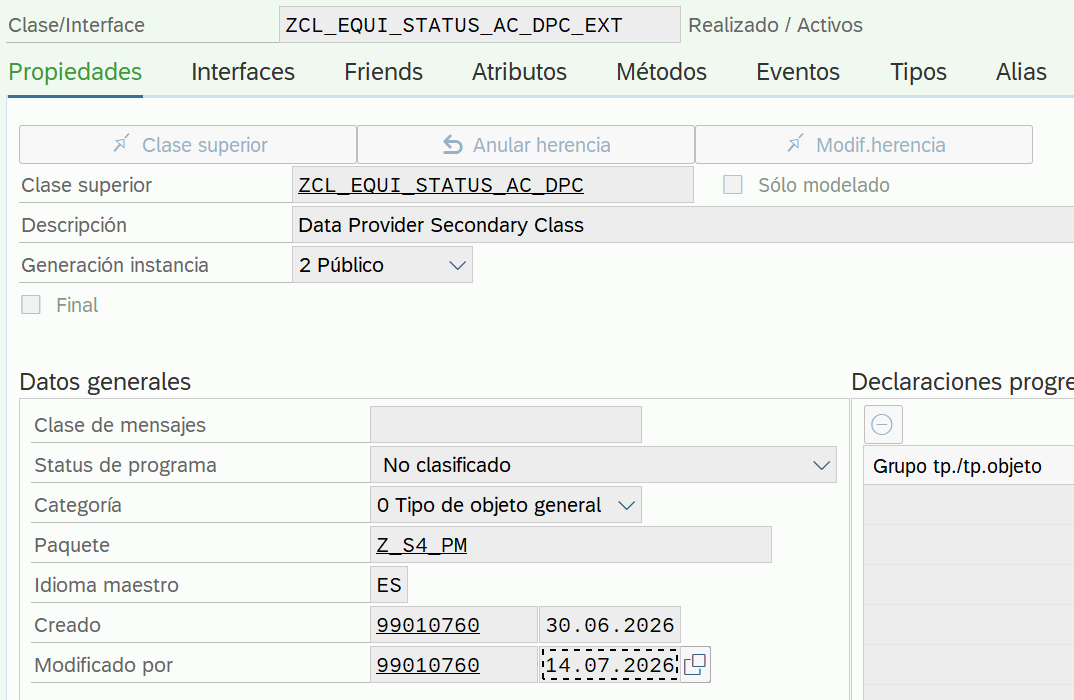
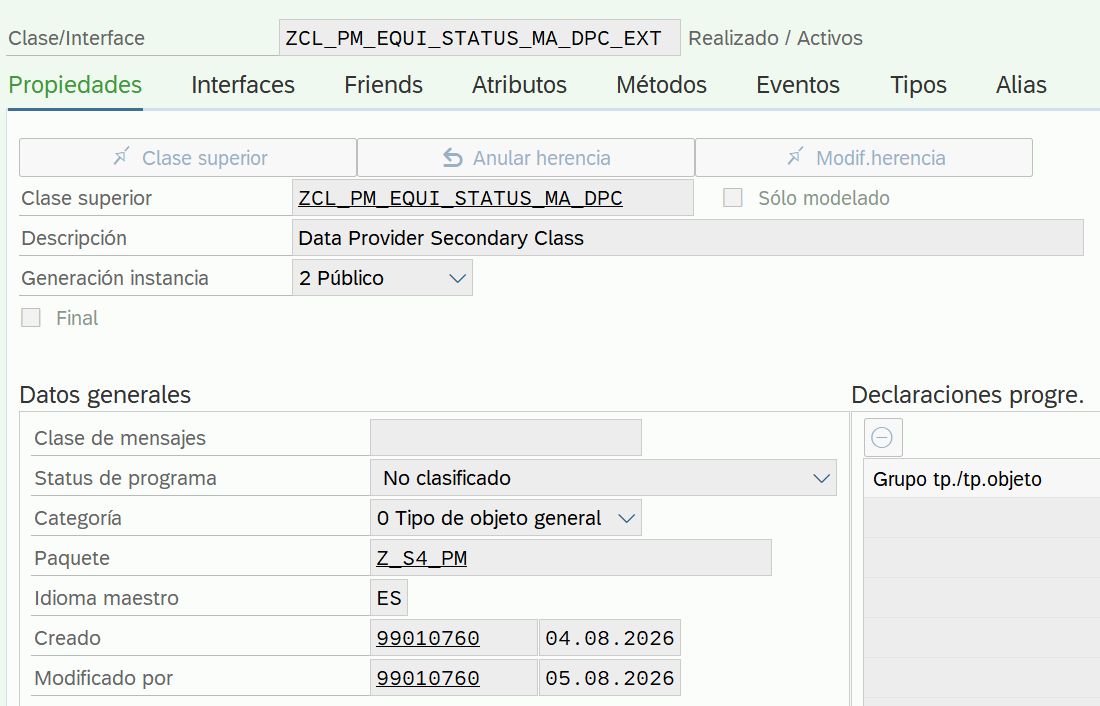
ok

diff --git a/ODATA_V2_UPDATE_MASIVO/otros/ZCL_PM_EQUI_STATUS_MA_DPC_EXT.md b/ODATA_V2_UPDATE_MASIVO/otros/ZCL_PM_EQUI_STATUS_MA_DPC_EXT.md
@@ -1,5 +1,17 @@
 # Clase ZCL_PM_EQUI_STATUS_MA_DPC_EXT
 
+Propiedades
+
+![Propiedades](/ODATA_V2_UPDATE_MASIVO/img/DPC_EXT_1.png)
+
+Métodos
+
+CREATE_DEEP_ENTITY
+
+HANDLE_ERRORS
+
+
+
 ``` abap
 class ZCL_PM_EQUI_STATUS_MA_DPC_EXT definition
   public
